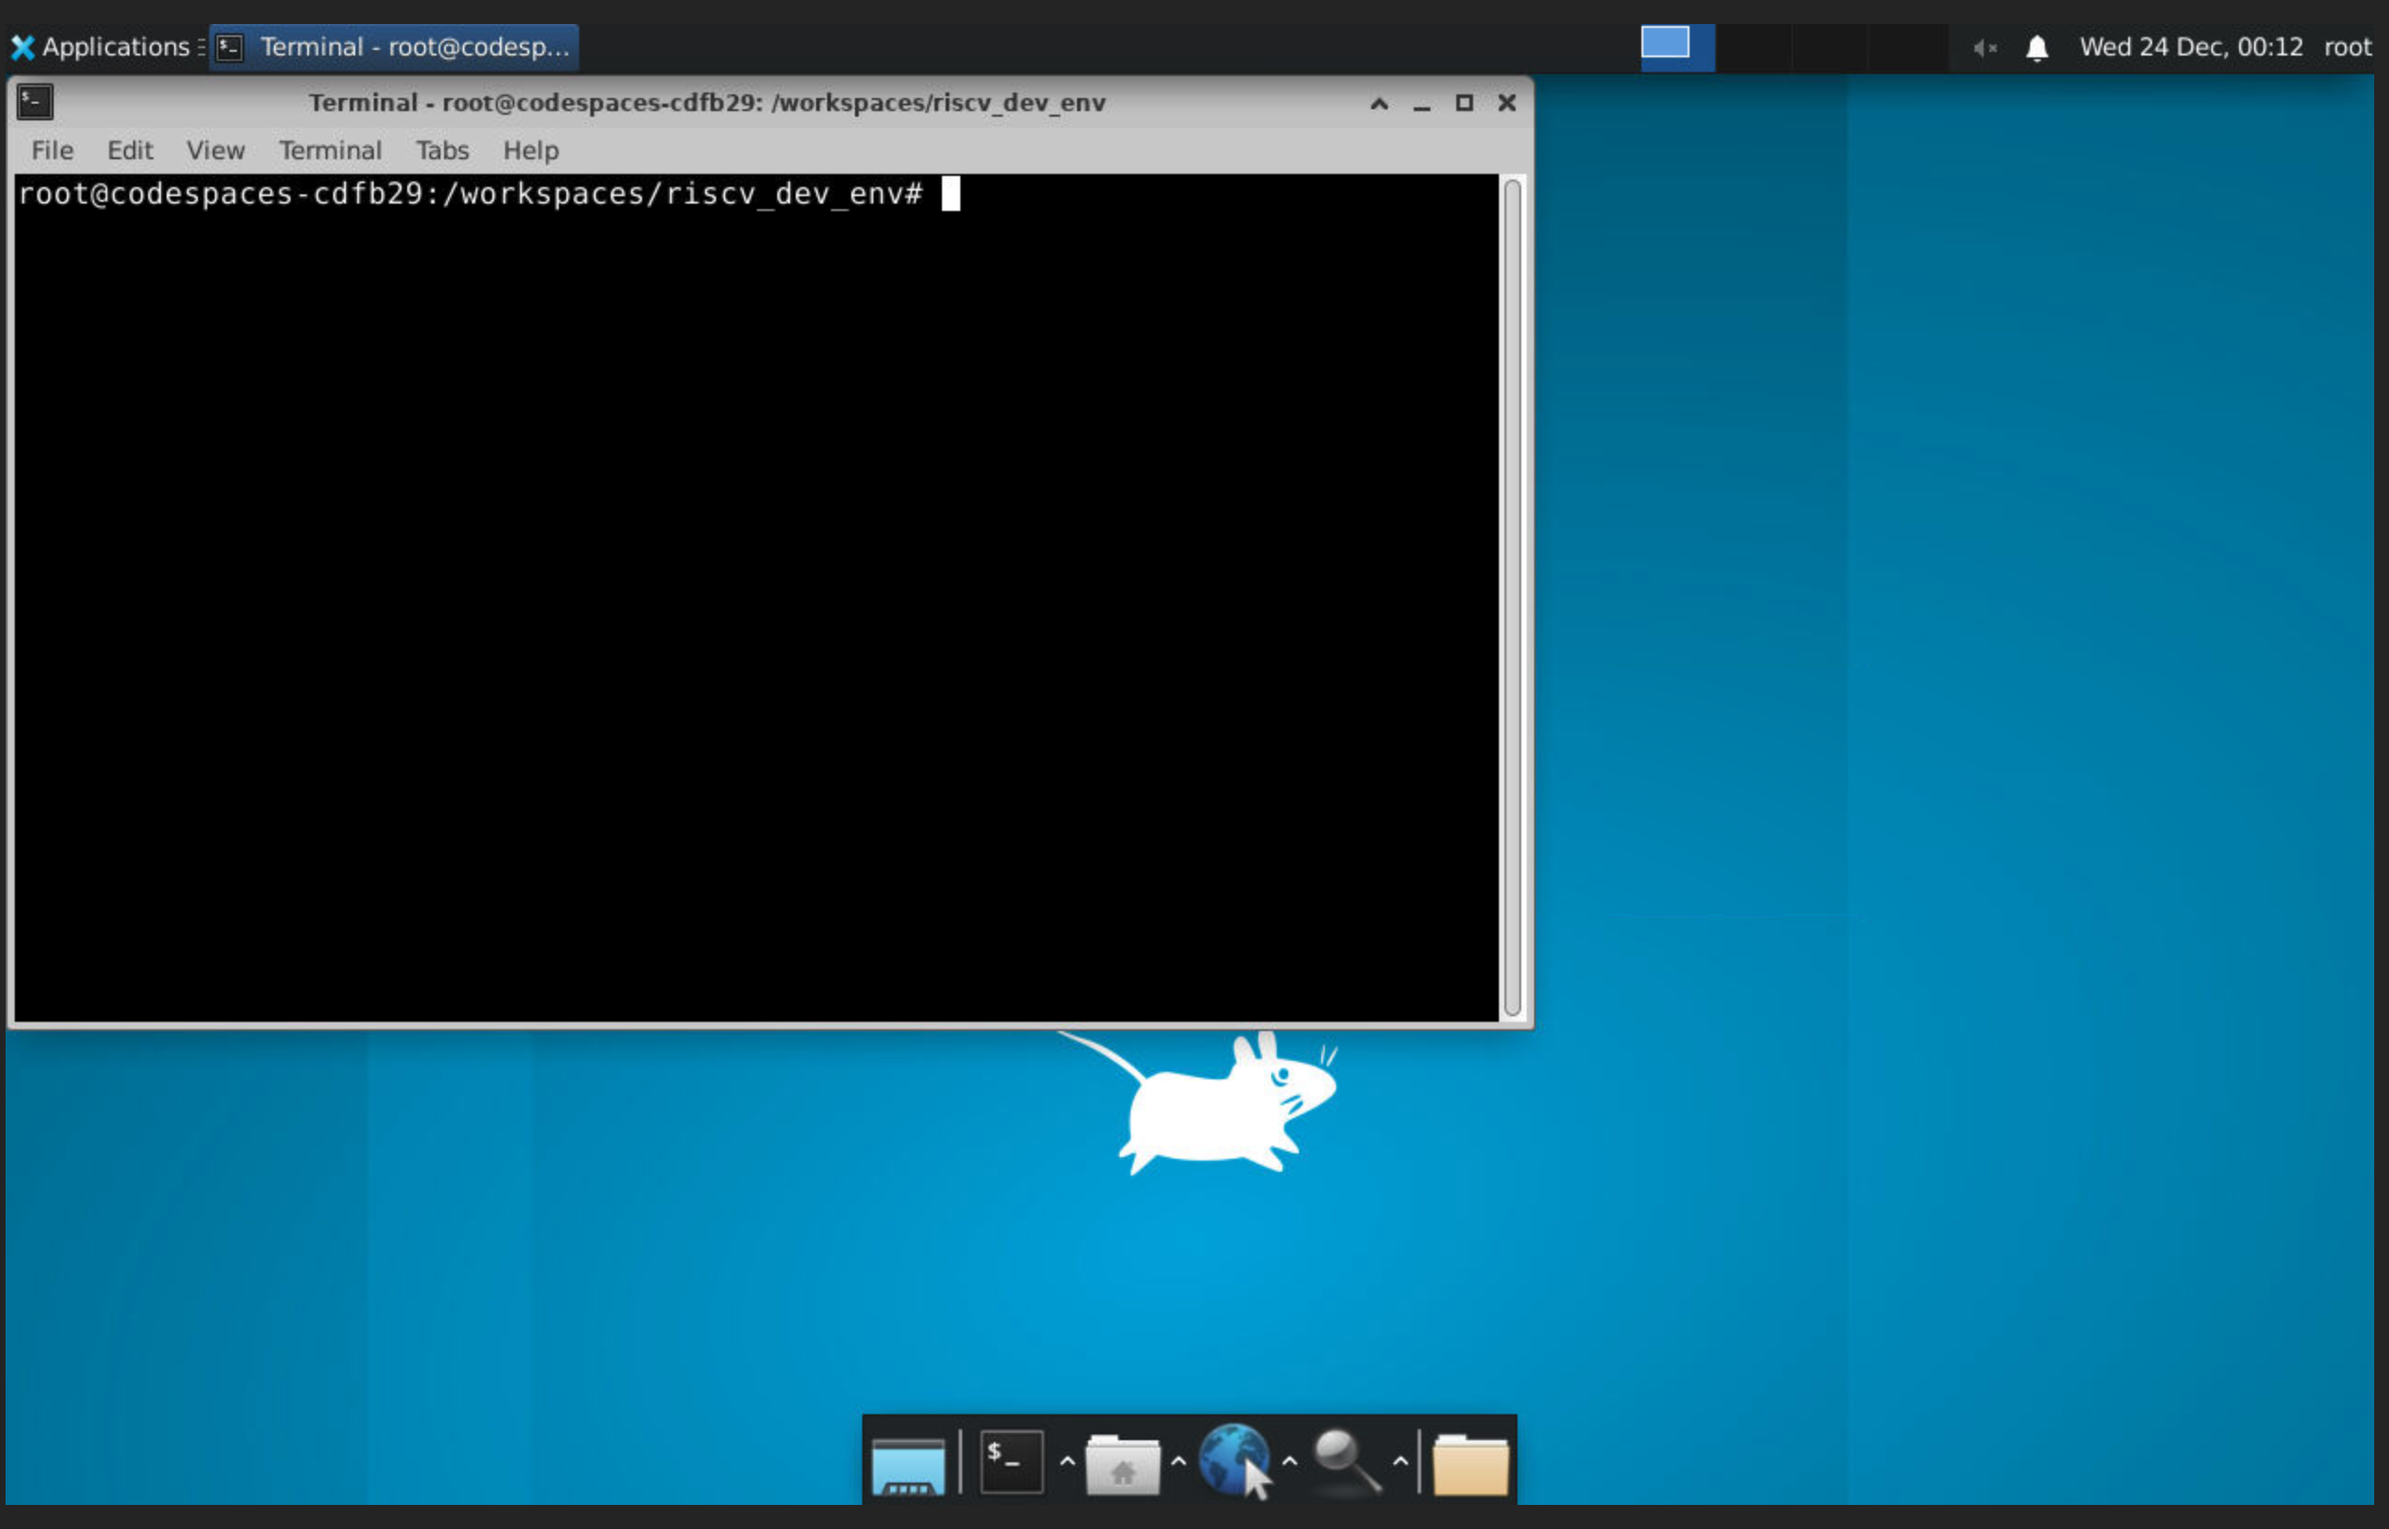
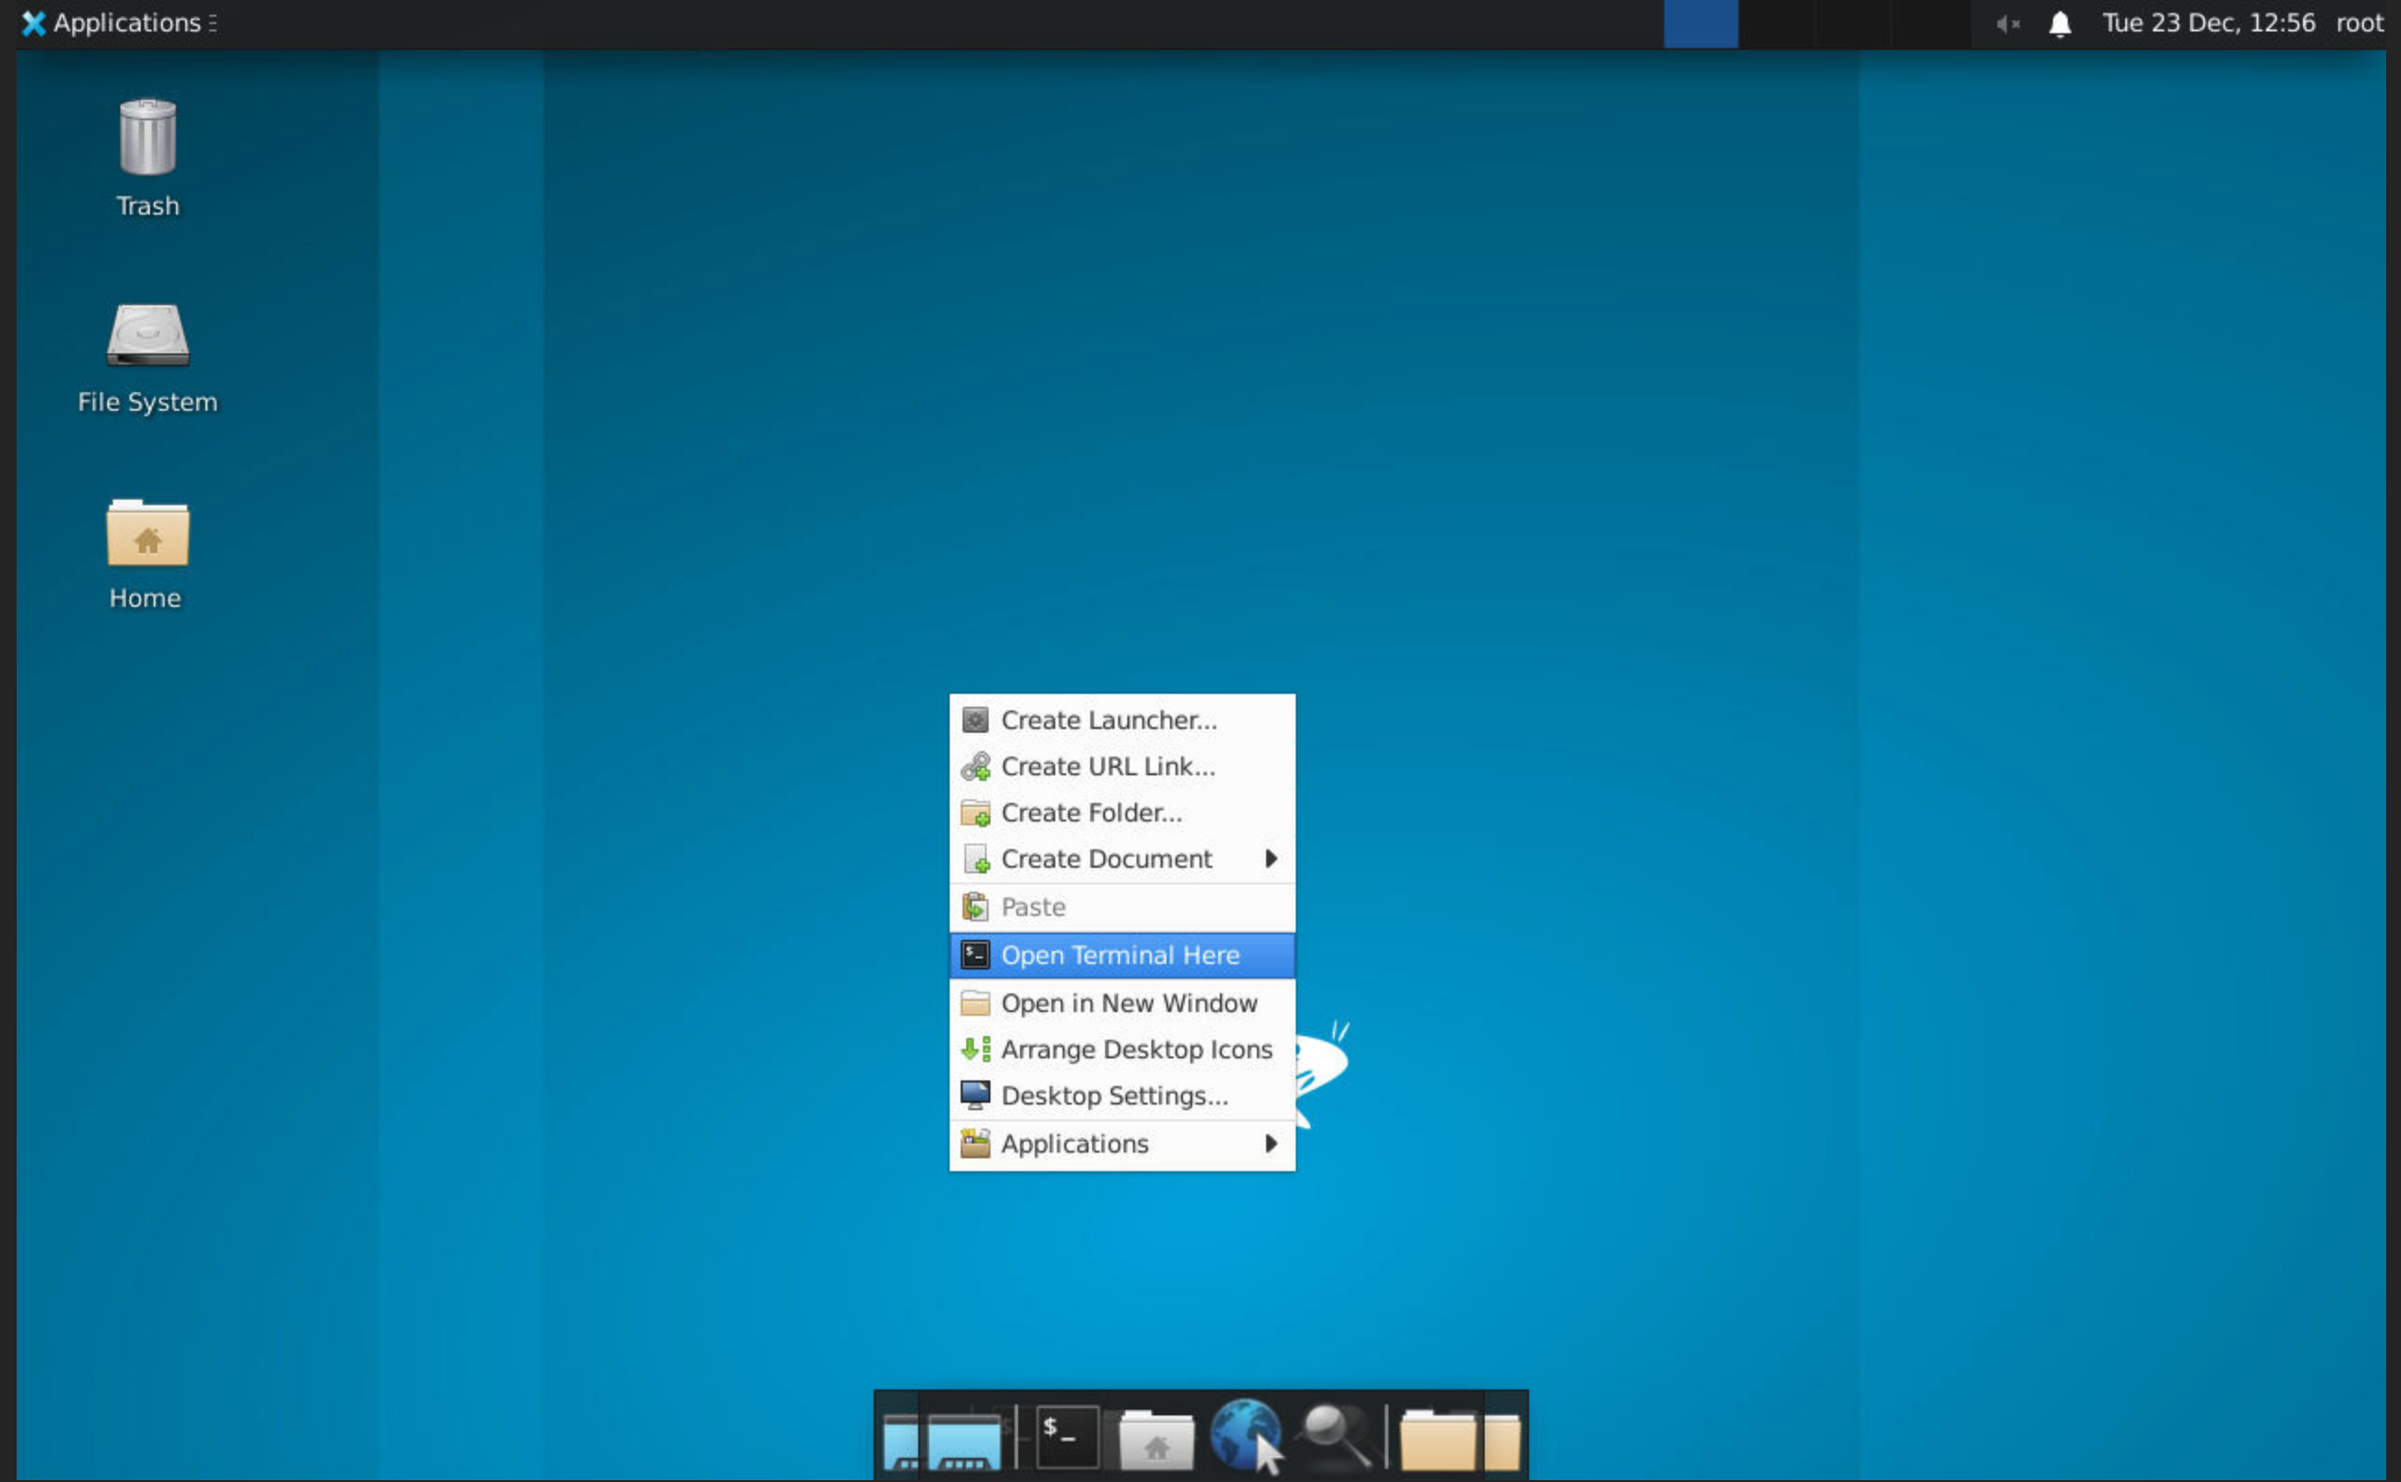
update readme

diff --git a/README.md b/README.md
@@ -84,7 +84,7 @@ The following steps show how to use a full Linux desktop inside your Codespace a
 
    ![noVNC directory listing](images/2.png)
 
-5. The Linux desktop appears in your browser.
+5. The Linux desktop appears in your browser, then select a terminal from the bottom menu.
 
    ![Desktop view](images/3.png)
 
@@ -92,7 +92,7 @@ The following steps show how to use a full Linux desktop inside your Codespace a
 
 ## Step 7. Open a Terminal Inside the Desktop
 
-1. Right-click anywhere on the desktop background.
+1. Or right-click anywhere on the desktop background.
 2. Select **Open Terminal Here**.
 
    ![Open terminal here](images/4.png)
